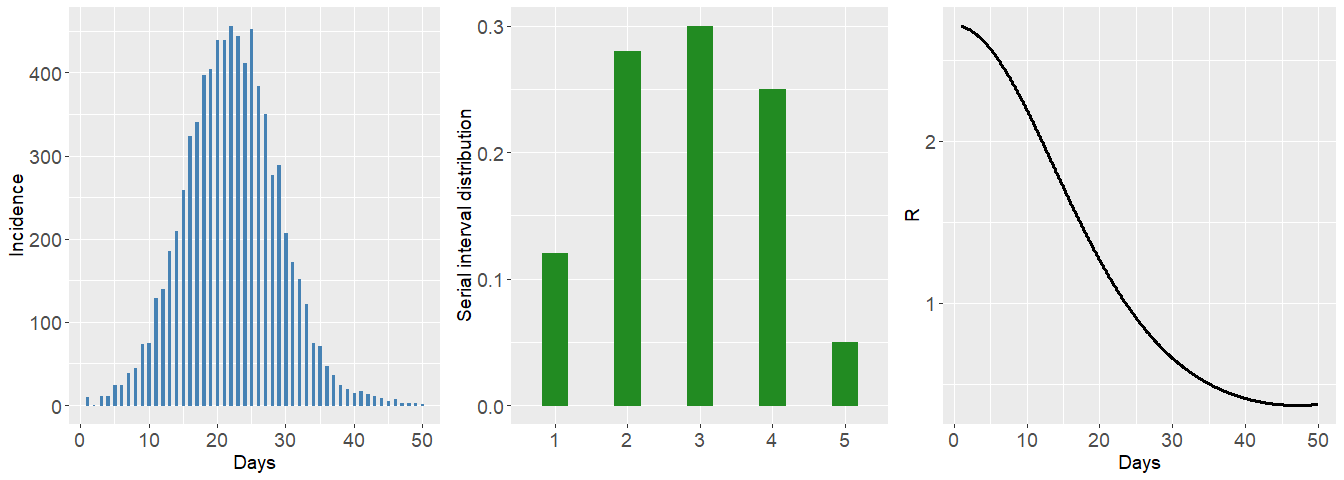
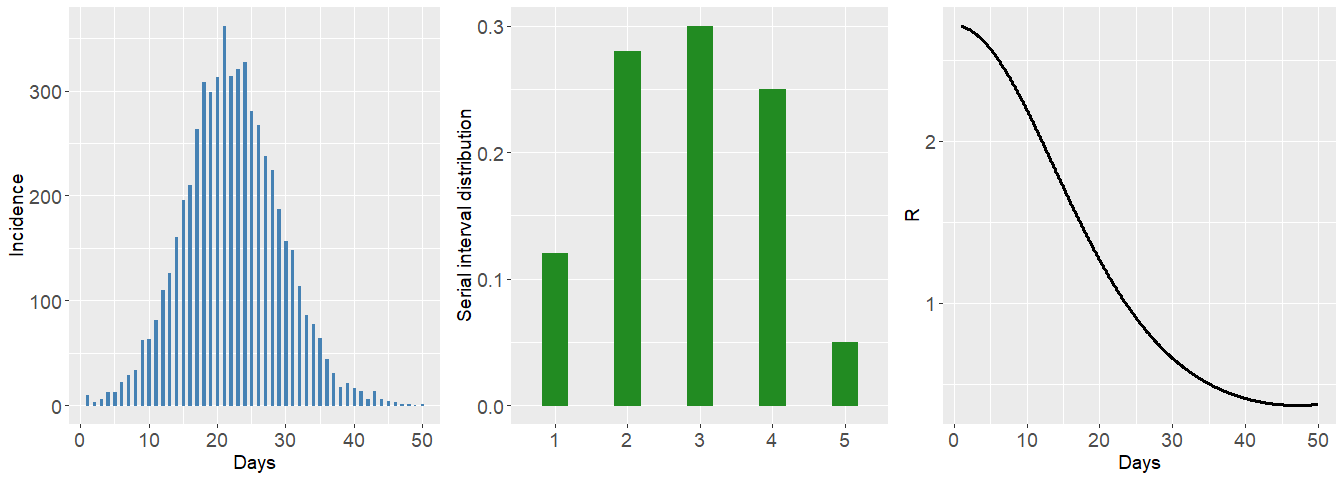
URL update

diff --git a/README.md b/README.md
@@ -50,7 +50,7 @@ completely sampling-free and fully relies on Laplace approximations and
 estimation. Routines for Laplace approximations and B-splines
 evaluations are typically the ones that are computationally most
 intensive and are therefore coded in C++ and integrated in R via the
-[Rcpp package](http://www.rcpp.org/), making them time irrelevant. The
+[Rcpp package](https://www.rcpp.org/), making them time irrelevant. The
 second approach is called LPSMALA (Laplacian-P-splines with a
 Metropolis-adjusted Langevin algorithm) and is fully stochastic. It
 samples the posterior of the model by using Langevin diffusions in a
@@ -129,9 +129,9 @@ The simulated incidence count data can be accessed by typing:
 simepi$y
 ```
 
-    ##  [1]  10   0  11  11  24  24  39  45  73  75 129 140 185 209 259 323 340 397 404
-    ## [20] 439 439 456 444 411 452 384 350 277 289 207 172 152 122  75  71  47  36  24
-    ## [39]  19  14  17  13  11   9   5   7   3   2   2   1
+    ##  [1]  10   3   6  12  12  22  29  33  62  63  81 110 126 160 196 210 263 308 299
+    ## [20] 313 362 314 321 327 281 267 238 224 187 157 148 114  86  77  64  44  31  17
+    ## [39]  21  16  13   6  13   6   4   3   1   1   0   1
 
 The `epilps()` routine can be used to fit the epidemic data. By default,
 the LPSMAP approach is used with 30 B-splines in the interval \[1; 50\]
@@ -144,8 +144,8 @@ epifit_LPSMAP <- epilps(incidence = simepi$y, serial_interval = si, tictoc = TRU
 
     ## Inference method chosen: LPSMAP. 
     ## CI for LPSMAP computed via lognormal posterior approx. of Rt.Total number of days: 50. 
-    ## Mean Rt discarding first 7 days: 0.981.
-    ## Mean 95% CI of Rt discarding first 7 days: (0.883,1.103) 
+    ## Mean Rt discarding first 7 days: 0.961.
+    ## Mean 95% CI of Rt discarding first 7 days: (0.847,1.112) 
     ## Elapsed real time (wall clock time): 0.19 seconds.
 
 ``` r
@@ -181,13 +181,13 @@ knitr::kable(epifit_LPSMAP$epifit[8:14,2:4])
 
 |     | R\_estim | R95CI\_low | R95CI\_up |
 |:----|---------:|-----------:|----------:|
-| 8   | 2.333111 |   2.045686 |  2.660921 |
-| 9   | 2.264281 |   2.024122 |  2.532935 |
-| 10  | 2.186586 |   1.979944 |  2.414796 |
-| 11  | 2.101762 |   1.929943 |  2.288879 |
-| 12  | 2.007508 |   1.858038 |  2.169003 |
-| 13  | 1.905146 |   1.779089 |  2.040135 |
-| 14  | 1.805344 |   1.695321 |  1.922507 |
+| 8   | 2.364059 |   2.001912 |  2.791718 |
+| 9   | 2.299278 |   1.995809 |  2.648890 |
+| 10  | 2.175783 |   1.916284 |  2.470422 |
+| 11  | 2.039616 |   1.827749 |  2.276041 |
+| 12  | 1.921321 |   1.737508 |  2.124579 |
+| 13  | 1.831518 |   1.675566 |  2.001985 |
+| 14  | 1.760867 |   1.621291 |  1.912459 |
 
 A smooth estimate of the epidemic curve can be obtained with the code
 below. The option `epicol` controls the color of the curve and
